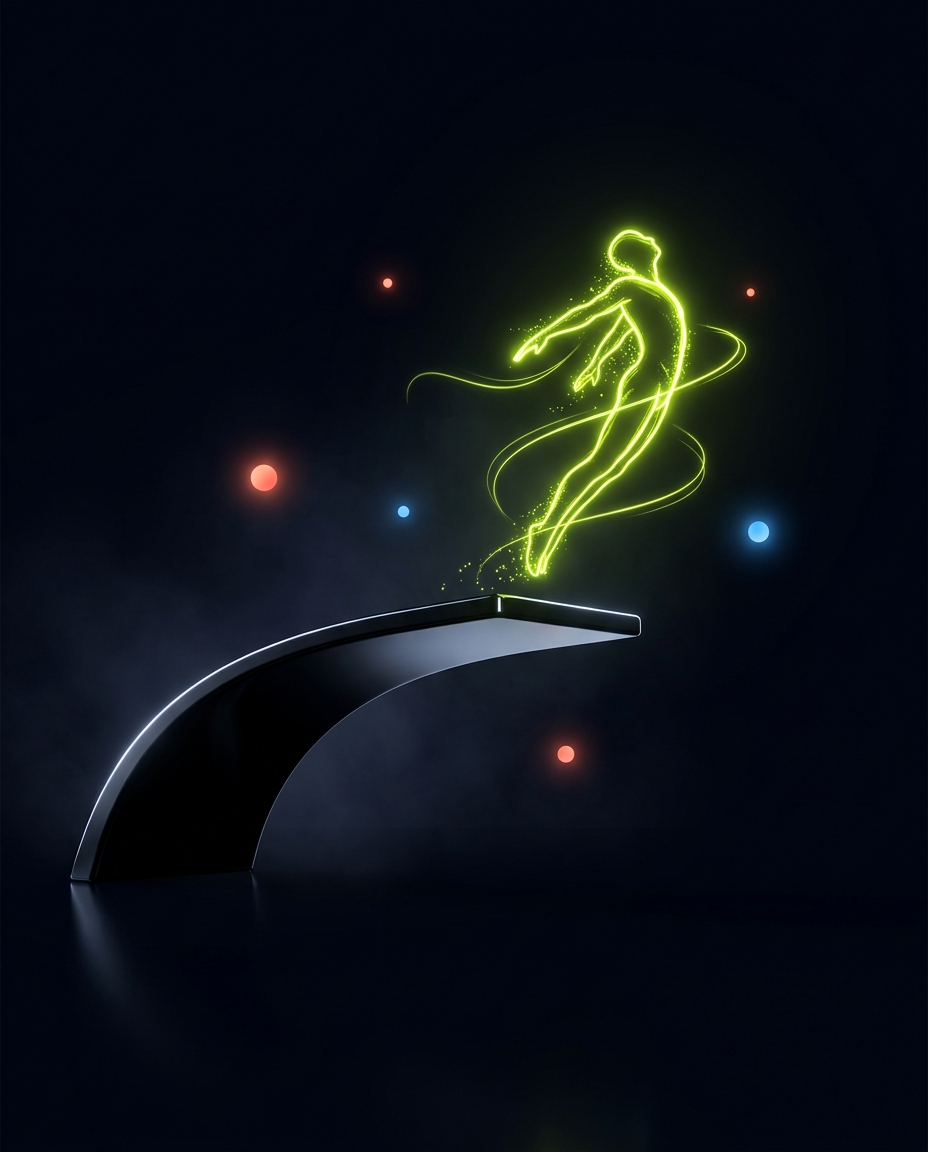
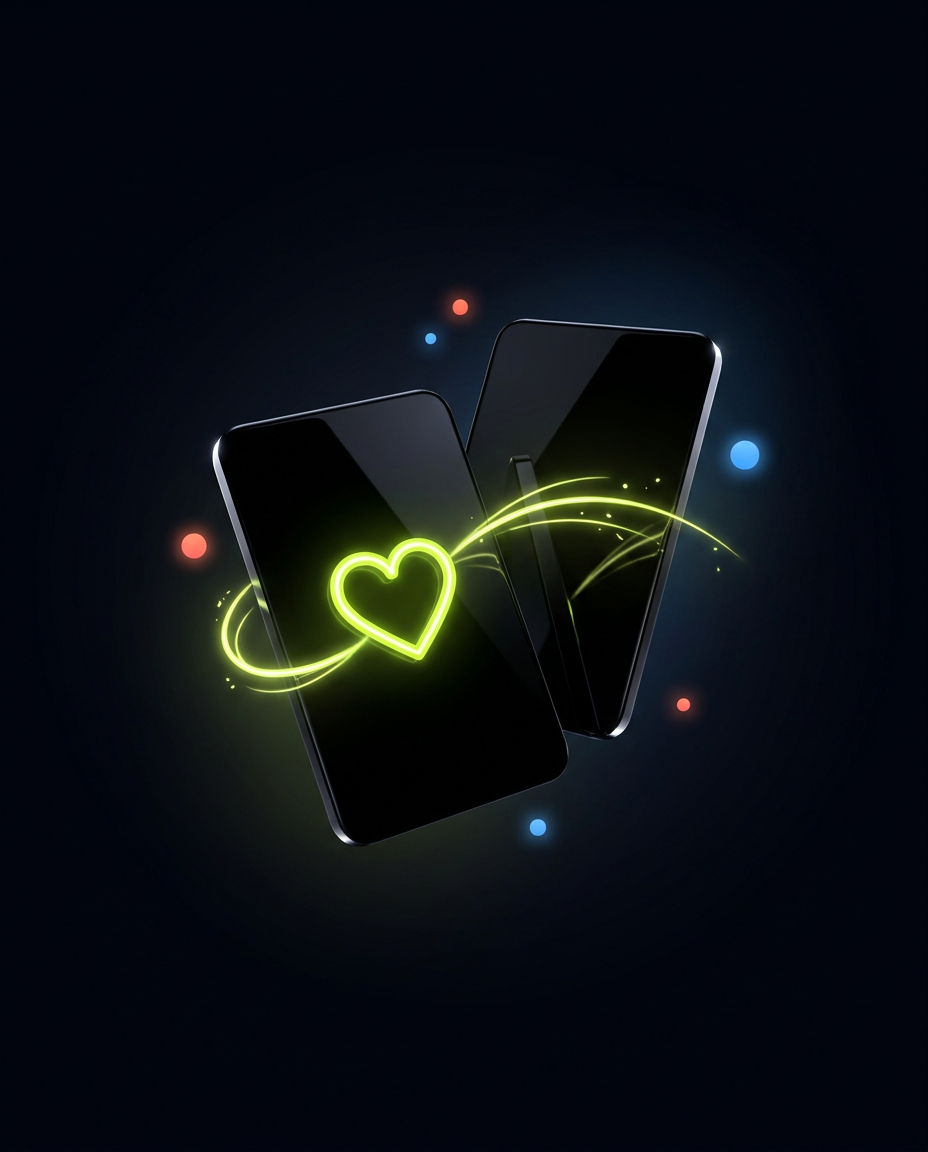
rebrand: Trampolim → MatchJobs (marca, ícones, hero art Higgsfield, storage keys, tabelas SQL, manifest)

Changed region(s): [[0.0625, 0.1562, 0.8438, 0.8438], [0.4062, 0.2188, 0.4375, 0.2812], [0.7188, 0.5938, 0.75, 0.625]]

diff --git a/lib/store.ts b/lib/store.ts
@@ -45,14 +45,14 @@ export interface Store {
 }
 
 const K = {
-  profile: "trampolim:profile",
-  swipes: "trampolim:swipes",
-  msgs: "trampolim:mensagens",
-  badges: "trampolim:badges",
-  vagasCustom: "trampolim:vagas_custom",
-  vagasPatch: "trampolim:vagas_patch",
-  shortlist: "trampolim:shortlist",
-  likesEmpresa: "trampolim:likes_empresa",
+  profile: "matchjobs:profile",
+  swipes: "matchjobs:swipes",
+  msgs: "matchjobs:mensagens",
+  badges: "matchjobs:badges",
+  vagasCustom: "matchjobs:vagas_custom",
+  vagasPatch: "matchjobs:vagas_patch",
+  shortlist: "matchjobs:shortlist",
+  likesEmpresa: "matchjobs:likes_empresa",
 };
 
 function lsGet<T>(key: string, fallback: T): T {
@@ -220,7 +220,7 @@ class SupabaseStore extends LocalStore {
   override async getVagas(): Promise<Vaga[]> {
     const supa = await this.client();
     const { data, error } = await supa
-      .from("trampolim_vagas")
+      .from("matchjobs_vagas")
       .select("*")
       .eq("ativa", true);
     if (error) throw error;
@@ -230,7 +230,7 @@ class SupabaseStore extends LocalStore {
   override async getProfile(): Promise<Profile | null> {
     const supa = await this.client();
     const { data } = await supa
-      .from("trampolim_profiles")
+      .from("matchjobs_profiles")
       .select("*")
       .eq("id", deviceId())
       .maybeSingle();
@@ -240,7 +240,7 @@ class SupabaseStore extends LocalStore {
   override async saveProfile(p: Profile): Promise<void> {
     const supa = await this.client();
     const { error } = await supa
-      .from("trampolim_profiles")
+      .from("matchjobs_profiles")
       .upsert({ ...p, id: deviceId(), updated_at: new Date().toISOString() });
     if (error) throw error;
   }
@@ -248,7 +248,7 @@ class SupabaseStore extends LocalStore {
   override async getSwipes(): Promise<Swipe[]> {
     const supa = await this.client();
     const { data, error } = await supa
-      .from("trampolim_swipes")
+      .from("matchjobs_swipes")
       .select("*")
       .eq("user_id", deviceId());
     if (error) throw error;
@@ -260,7 +260,7 @@ class SupabaseStore extends LocalStore {
   ): Promise<Swipe> {
     const supa = await this.client();
     const { data, error } = await supa
-      .from("trampolim_swipes")
+      .from("matchjobs_swipes")
       .upsert({ ...s, user_id: deviceId() }, { onConflict: "user_id,vaga_id" })
       .select()
       .single();
@@ -270,18 +270,18 @@ class SupabaseStore extends LocalStore {
 
   override async removeSwipe(id: string): Promise<void> {
     const supa = await this.client();
-    await supa.from("trampolim_swipes").delete().eq("id", id);
+    await supa.from("matchjobs_swipes").delete().eq("id", id);
   }
 
   override async resetSwipes(): Promise<void> {
     const supa = await this.client();
-    await supa.from("trampolim_swipes").delete().eq("user_id", deviceId());
+    await supa.from("matchjobs_swipes").delete().eq("user_id", deviceId());
   }
 
   override async getMensagens(swipeId: string): Promise<Mensagem[]> {
     const supa = await this.client();
     const { data, error } = await supa
-      .from("trampolim_mensagens")
+      .from("matchjobs_mensagens")
       .select("*")
       .eq("swipe_id", swipeId)
       .order("created_at");
@@ -294,7 +294,7 @@ class SupabaseStore extends LocalStore {
   ): Promise<Mensagem> {
     const supa = await this.client();
     const { data, error } = await supa
-      .from("trampolim_mensagens")
+      .from("matchjobs_mensagens")
       .insert(m)
       .select()
       .single();
@@ -305,10 +305,10 @@ class SupabaseStore extends LocalStore {
   override async clearAll(): Promise<void> {
     const supa = await this.client();
     const uid = deviceId();
-    await supa.from("trampolim_swipes").delete().eq("user_id", uid);
-    await supa.from("trampolim_profiles").delete().eq("id", uid);
+    await supa.from("matchjobs_swipes").delete().eq("user_id", uid);
+    await supa.from("matchjobs_profiles").delete().eq("id", uid);
     await super.clearAll();
-    localStorage.removeItem("trampolim:device_id");
+    localStorage.removeItem("matchjobs:device_id");
   }
 }
 

diff --git a/app/layout.tsx b/app/layout.tsx
@@ -15,17 +15,17 @@ const sora = Sora({
 });
 
 export const metadata: Metadata = {
-  title: "Trampolim — deslize pro trampo certo",
+  title: "MatchJobs — deslize pro trampo certo",
   description:
     "O Tinder das vagas: deslize, dê match e converse com quem quer te contratar. Chega de formulário infinito.",
-  applicationName: "Trampolim",
+  applicationName: "MatchJobs",
   appleWebApp: {
     capable: true,
     statusBarStyle: "black-translucent",
-    title: "Trampolim",
+    title: "MatchJobs",
   },
   openGraph: {
-    title: "Trampolim — deslize pro trampo certo",
+    title: "MatchJobs — deslize pro trampo certo",
     description:
       "O Tinder das vagas: deslize, dê match e converse com quem quer te contratar.",
     locale: "pt_BR",

diff --git a/app/manifest.ts b/app/manifest.ts
@@ -2,8 +2,8 @@ import type { MetadataRoute } from "next";
 
 export default function manifest(): MetadataRoute.Manifest {
   return {
-    name: "Trampolim — deslize pro trampo certo",
-    short_name: "Trampolim",
+    name: "MatchJobs — deslize pro trampo certo",
+    short_name: "MatchJobs",
     description:
       "O Tinder das vagas: deslize, dê match e converse com quem quer te contratar.",
     start_url: "/",

diff --git a/app/page.tsx b/app/page.tsx
@@ -164,7 +164,7 @@ export default function Home() {
     return (
       <div className="flex min-h-dvh items-center justify-center">
         <div className="anim-pop acc-glow flex h-20 w-20 items-center justify-center rounded-[24px] border acc-border bg-card text-4xl">
-          🤸
+          💚
         </div>
       </div>
     );
@@ -186,7 +186,7 @@ export default function Home() {
         >
           <header className="mb-3 flex items-center justify-between">
             <h1 className="font-[family-name:var(--font-display)] text-lg font-black">
-              TRAMPO<span className="text-volt">LIM</span>
+              MATCH<span className="text-volt">JOBS</span>
             </h1>
             <div className="flex items-center gap-2">
               <span className="rounded-full border border-line bg-card px-3 py-1 text-[11px] font-bold text-muted">

diff --git a/app/admin/page.tsx b/app/admin/page.tsx
@@ -155,7 +155,7 @@ export default function PortalAdmin() {
     <PortalShell
       portal="admin"
       titulo="Torre de Controle"
-      sub="Métricas e gestão do Trampolim (dados reais deste dispositivo)"
+      sub="Métricas e gestão do MatchJobs (dados reais deste dispositivo)"
     >
       <div className="mb-5 flex flex-wrap gap-2">
         {(

diff --git a/app/empresa/page.tsx b/app/empresa/page.tsx
@@ -17,7 +17,7 @@ import {
   Stat,
 } from "@/components/ui";
 
-const K_ATIVA = "trampolim:empresa_ativa";
+const K_ATIVA = "matchjobs:empresa_ativa";
 type Aba = "geral" | "vagas" | "candidatos";
 
 function perfilDe(t: Talento): Profile {

diff --git a/app/hunter/page.tsx b/app/hunter/page.tsx
@@ -14,7 +14,7 @@ import {
   Stat,
 } from "@/components/ui";
 
-const K_CONVITES = "trampolim:convites_hunter";
+const K_CONVITES = "matchjobs:convites_hunter";
 type Modo = "explorar" | "shortlist";
 
 interface Convite {

diff --git a/components/Onboarding.tsx b/components/Onboarding.tsx
@@ -159,7 +159,7 @@ export default function Onboarding({
           />
 
           <h1 className="anim-rise -mt-4 font-[family-name:var(--font-display)] text-[34px] font-black leading-none">
-            TRAMPO<span className="grad-text">LIM</span>
+            MATCH<span className="grad-text">JOBS</span>
           </h1>
           <p
             className="anim-rise mt-4 max-w-[270px] text-[15px] leading-relaxed text-muted"

diff --git a/components/Profile.tsx b/components/Profile.tsx
@@ -236,7 +236,7 @@ export default function ProfileView({
       </div>
 
       <p className="mt-6 text-center text-[10px] text-muted/60">
-        Trampolim v2 · dados no modo <span className="font-bold">{MODO_DADOS}</span> ·
+        MatchJobs v2 · dados no modo <span className="font-bold">{MODO_DADOS}</span> ·
         feito com 🔥 no Brasil
       </p>
 

diff --git a/components/ui.tsx b/components/ui.tsx
@@ -310,7 +310,7 @@ export function PortalShell({
             href="/"
             className="text-[11px] font-bold uppercase tracking-widest text-muted transition hover:text-ink"
           >
-            ← Trampolim
+            ← MatchJobs
           </Link>
           <h1 className="mt-1 truncate font-[family-name:var(--font-display)] text-2xl font-black">
             <span className="grad-text">{titulo}</span>

diff --git a/lib/uid.ts b/lib/uid.ts
@@ -1,4 +1,4 @@
-const KEY = "trampolim:device_id";
+const KEY = "matchjobs:device_id";
 
 /** Identidade anônima por dispositivo (MVP sem login). */
 export function deviceId(): string {